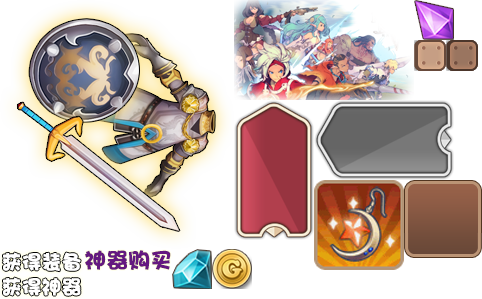
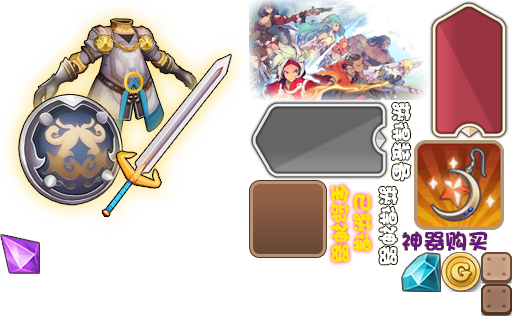
修改字体，修改buff显示

diff --git a/src/battle/BattleMenu.js b/src/battle/BattleMenu.js
@@ -361,9 +361,11 @@ function lockItem(hero, target, elements) {
 }
 
 function lockItemIfNecessary(hero, target, elements) {
-    if (!canUnlockItem(hero, target)) {
+    var flag = canUnlockItem(hero, target);
+    if (!flag) {
         lockItem(hero, target, elements);
     }
+    return flag;
 }
 var HeroListMenu = BattleMenu.extend({
     ctor: function (battle) {
@@ -644,7 +646,7 @@ var HeroListMenu = BattleMenu.extend({
                     var nextLevelLife = nextlevelData['life'];
                     elements.upgrade_btn.text_yellow.setString(nextLevelAmount);
                     var levelLife = hero.getLevelData()['life'];
-                    var effect=nextLevelLife - levelLife;
+                    var effect = nextLevelLife - levelLife;
                     elements.upgrade_btn.buffNum_text.setString(toFixed2(effect));
                 }
                 if (hero.getLv() == 1) {
@@ -662,19 +664,21 @@ var HeroListMenu = BattleMenu.extend({
             var heroDesc = new HeroDesc();
             heroDesc.initData(hero);
         }
-        function toFixed2(num){
-            var _effect =0;
-            var absEffect=Math.abs(num);
-            if(absEffect>0&&absEffect<1){
-                _effect=num.toFiexed(2);
-            }else {
+
+        function toFixed2(num) {
+            var _effect = 0;
+            var absEffect = Math.abs(num);
+            if (absEffect > 0 && absEffect < 1) {
+                _effect = num.toFixed(2);
+            } else {
                 _effect = Math.floor(num);
             }
-            if(_effect>0){
-                _effect='+'+_effect;
+            if (_effect > 0) {
+                _effect = '+' + _effect;
             }
             return _effect;
         }
+
         function initSkillView(hero, skill, elements) {
             if (skill.isMaxLevel()) {
                 return;
@@ -704,7 +708,7 @@ var HeroListMenu = BattleMenu.extend({
             gold_text.setString(nextAmount);
             buffNum_text.ignoreContentAdaptWithSize(true);
             elements.upgrade_btn.buff_text.setString(SkillEffectMappings[nextEffects[0]['type']]['name']);
-            var _effect =toFixed2(showEffect);
+            var _effect = toFixed2(showEffect);
             if (SkillEffectMappings[nextEffects[0]['type']]['type'] === 'rate') {
                 _effect += "%"
             }
@@ -794,8 +798,8 @@ var HeroListMenu = BattleMenu.extend({
                     var nextEffects = skill.traverseSkillEffects(skill.getLv() + 1);
                     elements.upgrade_btn.text_yellow.setString(nextAmount);
                     var showEffect = Math.floor(nextEffects[0].value - effects[0].value);
-                    if(showEffect>0){
-                        showEffect='+'+showEffect;
+                    if (showEffect > 0) {
+                        showEffect = '+' + showEffect;
                     }
                     elements.upgrade_btn.buff_text.setString(SkillEffectMappings[nextEffects[0]['type']]['name']);
                     if (SkillEffectMappings[nextEffects[0]['type']]['type'] === 'rate') {
@@ -894,6 +898,7 @@ var EquipListMenu = BattleMenu.extend({
             diamond_icon.setVisible(false);
             equipAll_text.setVisible(false);
             relic_icon.setVisible(true);
+            setFont(decs_text)
             var elements = {
                 buy_btn_layer: buy_btn_layer,
                 equipAll_text: equipAll_text,
@@ -923,7 +928,7 @@ var EquipListMenu = BattleMenu.extend({
                     count++;
                 }
             }
-            customEventHelper.sendEvent(EVENT.UPGRADE_EQUIP_NUM,count);
+            customEventHelper.sendEvent(EVENT.UPGRADE_EQUIP_NUM, count);
             if (count === hero.getEquipCount()) {
                 elements.buy_btn_layer.setVisible(false);
                 elements.equipAll_text.setVisible(true);
@@ -1009,7 +1014,7 @@ var EquipListMenu = BattleMenu.extend({
                     }
                 }
                 equipNum_text.setString(count);
-                customEventHelper.bindListener(EVENT.UPGRADE_EQUIP_NUM,function(event){
+                customEventHelper.bindListener(EVENT.UPGRADE_EQUIP_NUM, function (event) {
                     equipNum_text.setString(event.getUserData());
                 })
                 equipNum_text.ignoreContentAdaptWithSize(true)
@@ -1022,6 +1027,12 @@ var EquipListMenu = BattleMenu.extend({
                     var item = itemView.clone();
                     var itemIcon = item.getChildByName('item_icon');
                     itemIcon.loadTexture('res/icon/equips/' + equip.getIcon());
+                    customEventHelper.bindListener("itemIcon-" + equip.getId() + "-gray", function () {
+                        itemIcon.setColor(cc.color(90, 90, 90));
+                    });
+                    customEventHelper.bindListener("itemIcon-" + equip.getId() + "-white", function () {
+                        itemIcon.setColor(cc.color(255,255,255));
+                    });
                     itemList.addChild(item);
                 }
             }
@@ -1034,16 +1045,6 @@ var EquipListMenu = BattleMenu.extend({
             return root;
         }
 
-        //function initSkillView(hero, equip, elements) {
-        //    if (equip.isMaxLevel()) {
-        //        return;
-        //    }
-        //    if (!canUnlockItem(hero, equip)) {
-        //        lockItem(hero, equip, elements);
-        //    }/* else {
-        //        unlockAndInitSkill(equip, elements);
-        //    }*/
-        //}
         function buildEquipView(equip, hero) {
             var root = equipView.clone();
             var lockLayer = lockBtnTemplate.clone();
@@ -1079,7 +1080,15 @@ var EquipListMenu = BattleMenu.extend({
                 upgradeBtnIcon.loadTexture('res/icon/resources_small/' + upgradeCost.unit + '.png');
                 text.setString(upgradeCost.value);
                 var upgradeBtn = upgradeLayer.getChildByName('btn');
-                validateResourceNotEnough(upgradeCost, upgradeBtn, text)
+                //validateResourceNotEnough(upgradeCost, upgradeBtn, text)
+                //if (validateResourceNotEnough(upgradeCost, upgradeBtn, text)) {
+                //    customEventHelper.sendEvent("itemIcon-" + equip.getId() + "-gray");
+                //} else {
+                //    customEventHelper.sendEvent("itemIcon-" + equip.getId() + "-white");
+                //}
+
+                refeshItemIcon(validateResourceNotEnough(upgradeCost, upgradeBtn, text),equip.getId());
+
                 customEventHelper.bindListener(EVENT.GOLD_VALUE_UPDATE, function (event) {
                     updateResource(equip, {unit: 'gold'}, upgradeBtn, text);
                 });
@@ -1097,7 +1106,6 @@ var EquipListMenu = BattleMenu.extend({
                 elements.lock_btn.level_text = lockLayer.getChildByName('level_text');
                 elements.lock_btn.level_text.ignoreContentAdaptWithSize(true);
                 elements.lock_btn.level_text.setColor(cc.color(255, 0, 0));
-
                 upgradeBtn.addClickEventListener(function (event) {
                     var cost = equip.getLevelData()['upgrade'];
                     equip.upgrade(hero);
@@ -1118,9 +1126,9 @@ var EquipListMenu = BattleMenu.extend({
                         text.setString(nextCost.value);
                         validateResourceNotEnough(nextCost, upgradeBtn, text);
                     }
-                    lockItemIfNecessary(hero, equip, elements);
+                    refeshItemIcon(!lockItemIfNecessary(hero, equip, elements),equip.getId());
                 });
-                lockItemIfNecessary(hero, equip, elements);
+                refeshItemIcon(!lockItemIfNecessary(hero, equip, elements),equip.getId());
                 customEventHelper.bindListener(EVENT.HERO_UPGRADE, function () {
                     if (canUnlockItem(hero, equip) && elements.lock_btn.layer.isVisible()) {
                         elements.lock_btn.layer.isVisible() && elements.lock_btn.layer.setVisible(false);
@@ -1131,12 +1139,24 @@ var EquipListMenu = BattleMenu.extend({
             setFont([name, desc])
             return root;
         }
-
+        function refeshItemIcon(flag,id){
+            if (flag) {
+                customEventHelper.sendEvent("itemIcon-" + id+ "-gray");
+            } else {
+                customEventHelper.sendEvent("itemIcon-" + id + "-white");
+            }
+        }
         function updateResource(equip, data, upgradeBtn, text) {
             var cost = equip.getNextLevelUpgrade();
             var unit = data['unit'];
             if (cost['unit'] === unit) {
-                validateResourceNotEnough(cost, upgradeBtn, text);
+                //if (validateResourceNotEnough(cost, upgradeBtn, text)) {
+                //    customEventHelper.sendEvent("itemIcon-" + equip.getId() + "-gray");
+                //} else {
+                //    customEventHelper.sendEvent("itemIcon-" + equip.getId() + "-white");
+                //}
+
+                refeshItemIcon(validateResourceNotEnough(cost, upgradeBtn, text),equip.getId());
             }
         }
 

diff --git a/src/model/Data.js b/src/model/Data.js
@@ -20,16 +20,17 @@ function getLevelData(data, key, lv) {
     }
     var max = data.levelDatas[0];
     var maxLevel = max['level'];
-    if (maxLevel <= lv) {
-        return $$.extend(max[key]);
-    }
-    //var len = data.levelDatas.length;
     var result;
-    var index = /*maxLevel === len ? maxLevel - lv - 1 :*/ maxLevel - lv;
-    if (!data.levelDatas[index]) {
-        result = data.levelDatas[maxLevel][key];
+    if (maxLevel <= lv) {
+        result = max[key];
     } else {
-        result = data.levelDatas[index][key];
+        //var len = data.levelDatas.length;
+        var index = /*maxLevel === len ? maxLevel - lv - 1 :*/ maxLevel - lv;
+        if (!data.levelDatas[index]) {
+            result = data.levelDatas[maxLevel][key];
+        } else {
+            result = data.levelDatas[index][key];
+        }
     }
     if (cc.isObject(result)) {
         return $$.extend(result)

diff --git a/src/apps.js b/src/apps.js
@@ -93,7 +93,8 @@ function validateAmountNotEnough(upgradeLevelData) {
     return amount < upgradeLevelData['value'];
 }
 function validateResourceNotEnough(nextlevelData, upgrade_btn, text) {
-    if (validateAmountNotEnough(nextlevelData)) {
+    var flag=validateAmountNotEnough(nextlevelData)
+    if (flag) {
         upgrade_btn.setEnabled(false);
         upgrade_btn.setBright(false);
         text.setColor(cc.color(255, 0, 0));
@@ -102,6 +103,7 @@ function validateResourceNotEnough(nextlevelData, upgrade_btn, text) {
         upgrade_btn.setBright(true);
         text.setColor(cc.color(255, 255, 255));
     }
+    return flag;
 }
 
 function addPlayer(playerName,callback){
